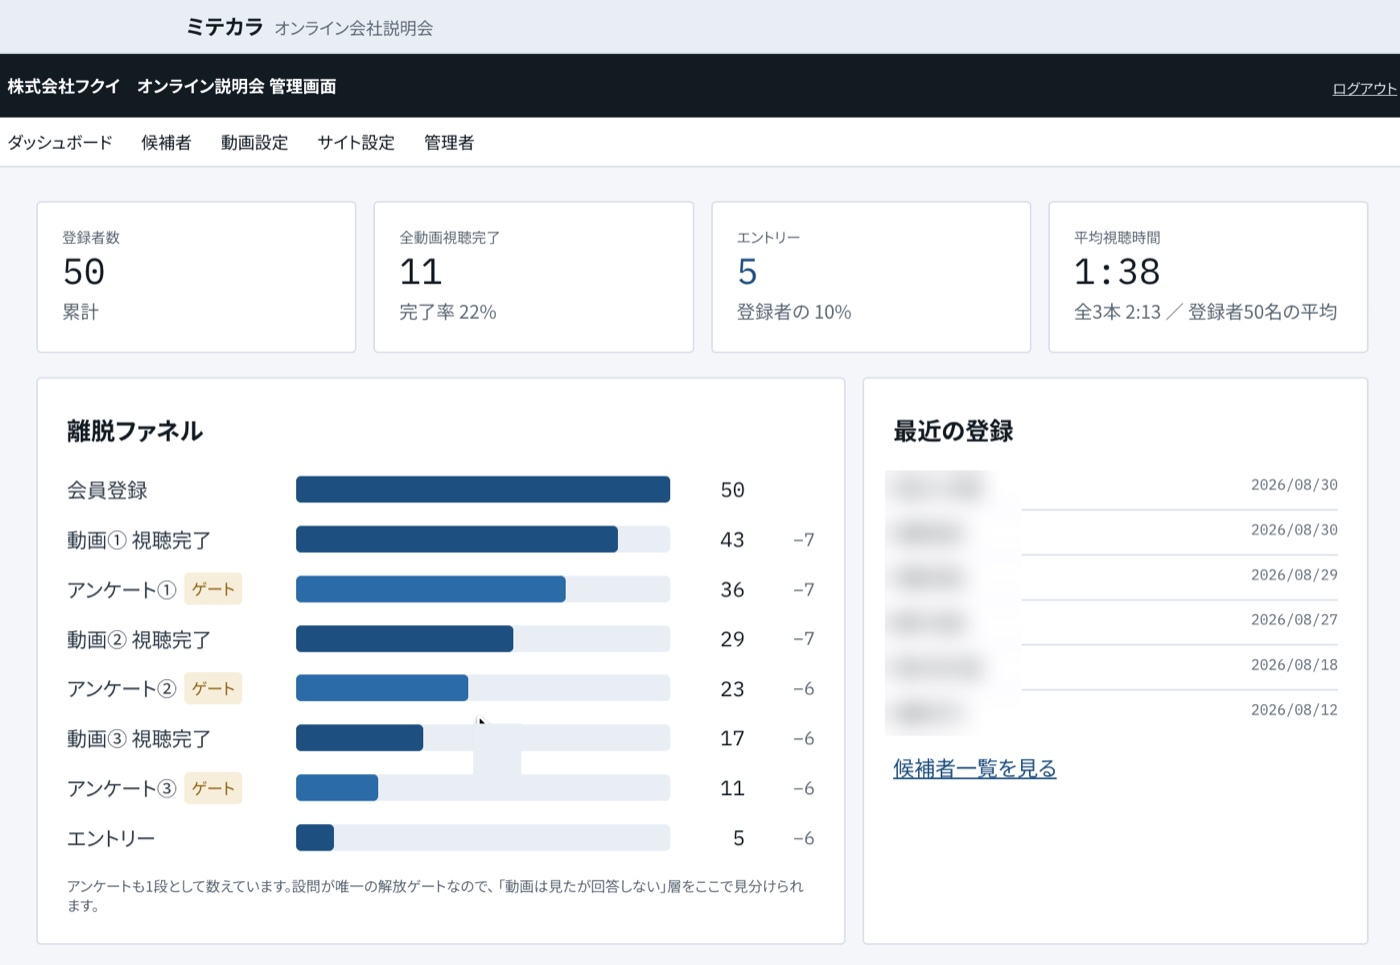
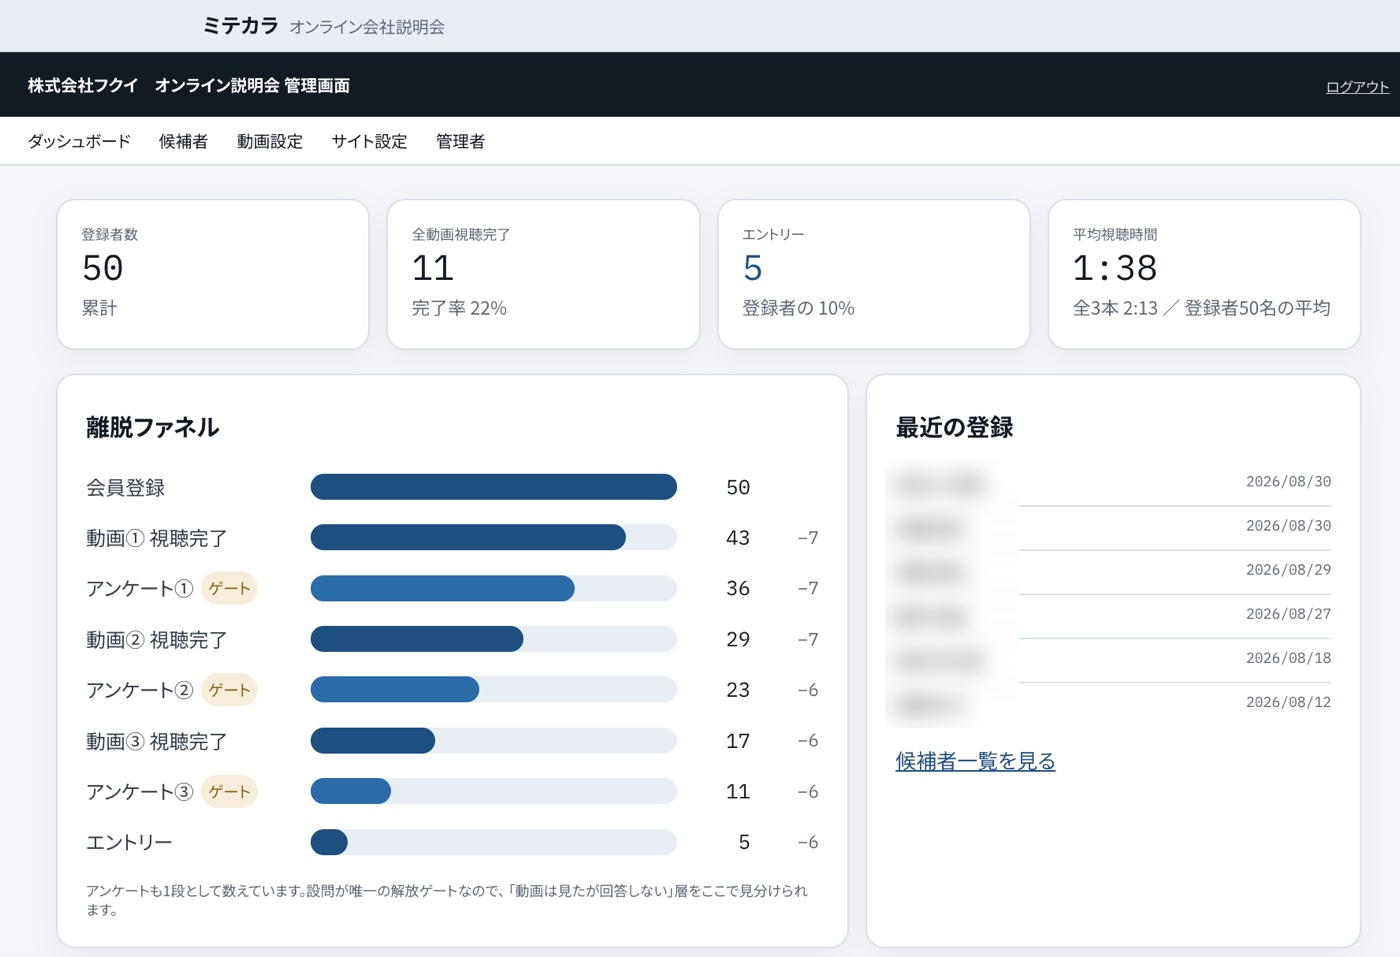
採用ご担当者が見る画面をダッシュボードのスクショに差し替え、カーソルなしの画像に更新

diff --git a/index.html b/index.html
@@ -164,10 +164,12 @@ h3{font-weight:800}
 .banner .ctas{margin-top:28px}
 .banner-grid{display:grid;grid-template-columns:1.05fr .95fr;gap:44px;align-items:center}
 .shot-frame{background:#fff;border-radius:14px;overflow:hidden;box-shadow:0 30px 60px rgba(0,0,0,.35)}
-.shot-frame .bar{display:flex;align-items:center;gap:6px;padding:9px 12px;background:#f1f4fa;border-bottom:1px solid #e3e8f0}
-.shot-frame .bar i{width:9px;height:9px;border-radius:50%;background:#d5dbe7}
-.shot-frame .bar i:first-child{background:#ff6b6b}.shot-frame .bar i:nth-child(2){background:#ffc85c}.shot-frame .bar i:nth-child(3){background:#5ad17b}
-.shot-frame .bar span{margin-left:8px;font-size:11px;color:var(--muted);font-weight:700}
+.dash-shot{margin-top:40px}
+.dash-shot .shot-frame{box-shadow:var(--shadow);border:1px solid var(--line)}
+.shot-frame .fbar{display:flex;align-items:center;gap:6px;padding:9px 12px;background:#f1f4fa;border-bottom:1px solid #e3e8f0}
+.shot-frame .fbar i{width:9px;height:9px;flex:0 0 9px;border-radius:50%;background:#d5dbe7}
+.shot-frame .fbar i:first-child{background:#ff6b6b}.shot-frame .fbar i:nth-child(2){background:#ffc85c}.shot-frame .fbar i:nth-child(3){background:#5ad17b}
+.shot-frame .fbar span{margin-left:8px;font-size:11px;color:var(--muted);font-weight:700}
 .shot-frame img{display:block;width:100%}
 .banner-note{font-size:11px;color:rgba(255,255,255,.75)!important;margin:10px 0 0;text-align:center}
 .doc-mock{background:#fff;color:var(--ink);border-radius:14px;padding:22px;box-shadow:0 30px 60px rgba(0,0,0,.3);transform:rotate(-2deg)}
@@ -676,7 +678,7 @@ footer .logo-mark{background:rgba(255,255,255,.12)}
           </div>
         </div>
         <div class="banner-shot">
-          <div class="shot-frame"><div class="bar"><i></i><i></i><i></i><span>採用担当者が見る管理画面（ダッシュボード）</span></div><img src="images/screen-dashboard.jpg" alt="採用担当者が見る管理画面のダッシュボード" loading="lazy"></div>
+          <div class="shot-frame"><div class="fbar"><i></i><i></i><i></i><span>採用担当者が見る管理画面（ダッシュボード）</span></div><img src="images/screen-dashboard.jpg" alt="採用担当者が見る管理画面のダッシュボード" loading="lazy"></div>
           <p class="banner-note">※表示データはサンプルです</p>
         </div>
       </div>
@@ -823,28 +825,9 @@ footer .logo-mark{background:rgba(255,255,255,.12)}
       <div class="card rv"><div class="card-num">03</div><h3>CSV出力</h3><p>候補者の一覧を、絞り込んだ状態のまま CSV で書き出せます。社内共有や、他システムへの取り込みに使えます。</p></div>
       <div class="card rv"><div class="card-num">04</div><h3>画面の設定</h3><p>動画のタイトル・説明文・サムネイル、会社名・ロゴ・背景画像、外部リンク、配色、通知先、管理者アカウントは管理画面から変更できます。</p></div>
     </div>
-    <div class="dash rv" aria-label="管理画面イメージ（画面はイメージです）">
-      <div class="dash-top"><i></i><i></i><i></i><span>admin / 候補者一覧</span><span class="mock-note">※画面はイメージです（配色は初期設定の緑。管理画面から6色に変更できます）</span></div>
-      <div class="dash-body">
-        <div class="dash-side">
-          <div class="on">候補者一覧</div><div>動画・ページ設定</div><div>会社情報・配色</div><div>通知設定</div><div>管理者アカウント</div>
-        </div>
-        <div class="dash-main">
-          <div class="kpis">
-            <div class="kpi"><small>今月の登録</small><b>128</b></div>
-            <div class="kpi"><small>視聴完了率</small><b>84%</b></div>
-            <div class="kpi"><small>アンケート回答</small><b>97</b></div>
-            <div class="kpi"><small>エントリー</small><b>41</b></div>
-          </div>
-          <div class="rows">
-            <div class="row h"><div>氏名 / 学校</div><div>いまの状態</div><div class="c3">再生時間</div><div class="c4">志望度（本人回答）</div></div>
-            <div class="row"><div><b>佐藤 ◯◯</b><br><span style="color:var(--muted)">◯◯大学 経済学部</span></div><div>エントリー済</div><div class="c3">8:00 / 8:00</div><div class="c4"><span class="st hot">ぜひ応募したい</span></div></div>
-            <div class="row"><div><b>田中 ◯◯</b><br><span style="color:var(--muted)">◯◯大学 工学部</span></div><div>全視聴完了・エントリー未</div><div class="c3">7:40 / 8:00</div><div class="c4"><span class="st mid">応募を検討したい</span></div></div>
-            <div class="row"><div><b>鈴木 ◯◯</b><br><span style="color:var(--muted)">◯◯大学 文学部</span></div><div>アンケート①未回答</div><div class="c3">2:00 / 8:00</div><div class="c4">—</div></div>
-            <div class="row"><div><b>高橋 ◯◯</b><br><span style="color:var(--muted)">◯◯短期大学</span></div><div>動画①未視聴</div><div class="c3">0:00 / 8:00</div><div class="c4">—</div></div>
-          </div>
-        </div>
-      </div>
+    <div class="dash-shot rv">
+      <div class="shot-frame"><div class="fbar"><i></i><i></i><i></i><span>admin / ダッシュボード</span></div><img src="images/screen-dashboard.jpg" alt="採用担当者が見る管理画面のダッシュボード。登録者数・視聴完了・エントリーの集計と離脱ファネル" loading="lazy"></div>
+      <p class="shot-note">※表示データはサンプルです。配色は初期設定のもので、管理画面から6色に変更できます。</p>
     </div>
   </div>
 </section>
